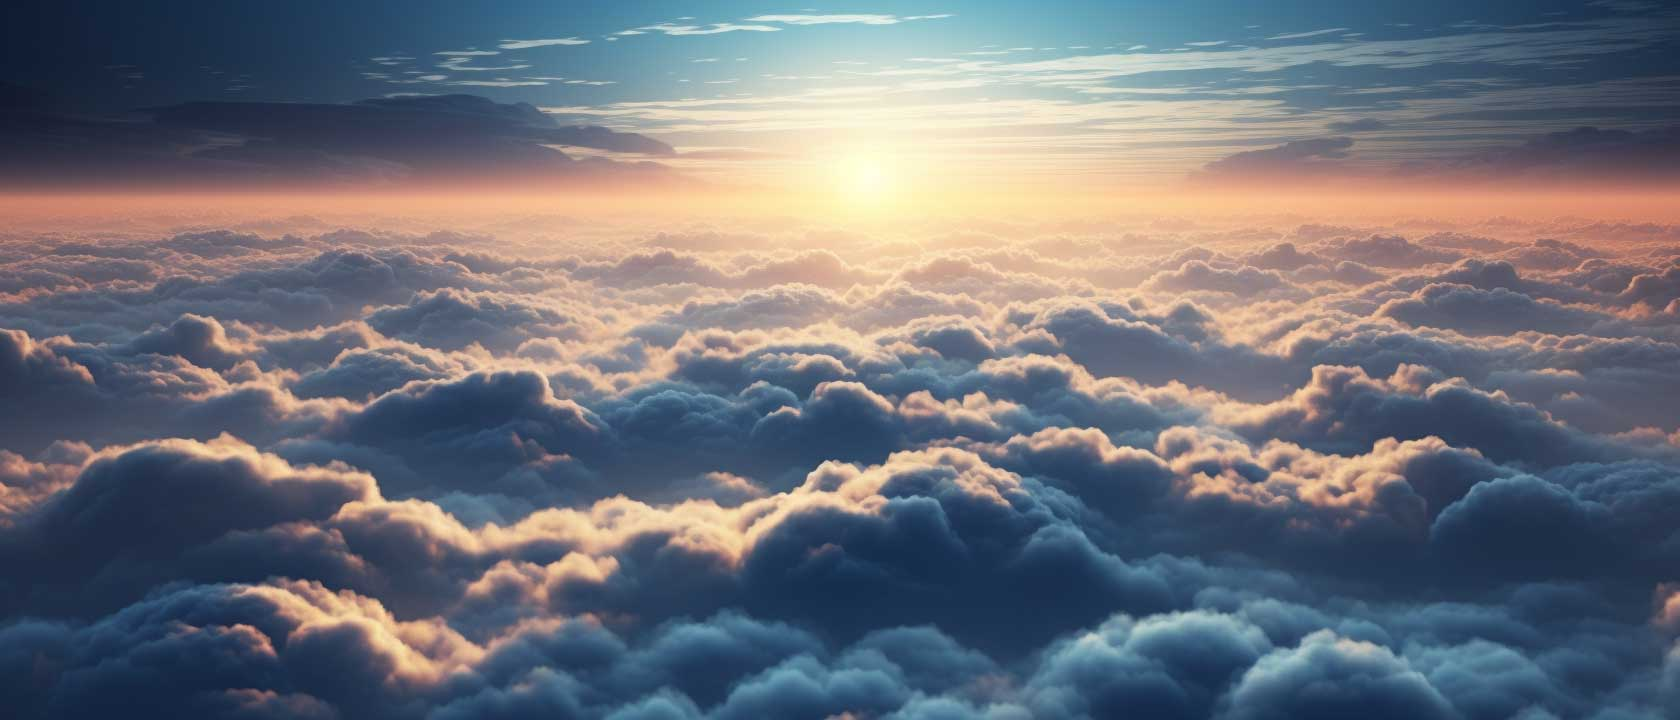
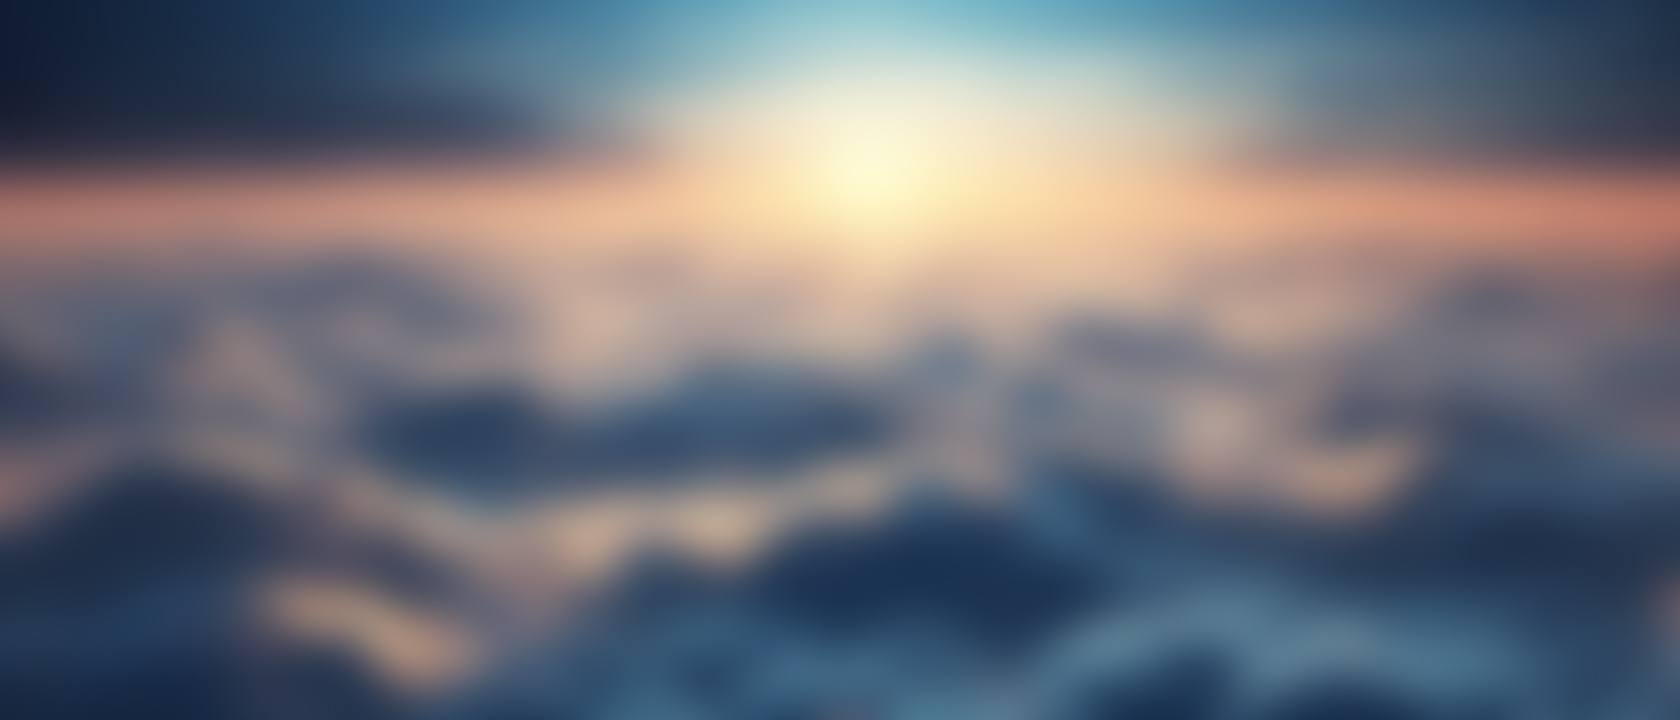
Moved bg img to CSS, set blur on img itself

diff --git a/app/page.tsx b/app/page.tsx
@@ -37,13 +37,6 @@ export default function Home() {
   } else {
     return (
       <main className="flex min-h-screen flex-col items-center bg-gray-400/30">
-        {/* Background image */}
-        <Image
-          src="/bg-clouds.jpg"
-          layout="fill"
-          alt="gradient background"
-          className="object-cover z-[-1] filter blur-xl"
-        />
         {/* Search */}
         <div className="relative flex justify-between items-center max-w-[500px] w-full m-auto pt-4 px-2 text-white z-10">
           <form

diff --git a/app/globals.css b/app/globals.css
@@ -2,6 +2,15 @@
 @tailwind components;
 @tailwind utilities;
 
+body {
+  background-image: url('/bg-clouds.jpg');
+  -webkit-background-size: cover;
+  -moz-background-size: cover;
+  -o-background-size: cover;
+  background-size: cover;
+  z-index: -10;
+}
+
 .lds-roller {
   display: inline-block;
   position: relative;
